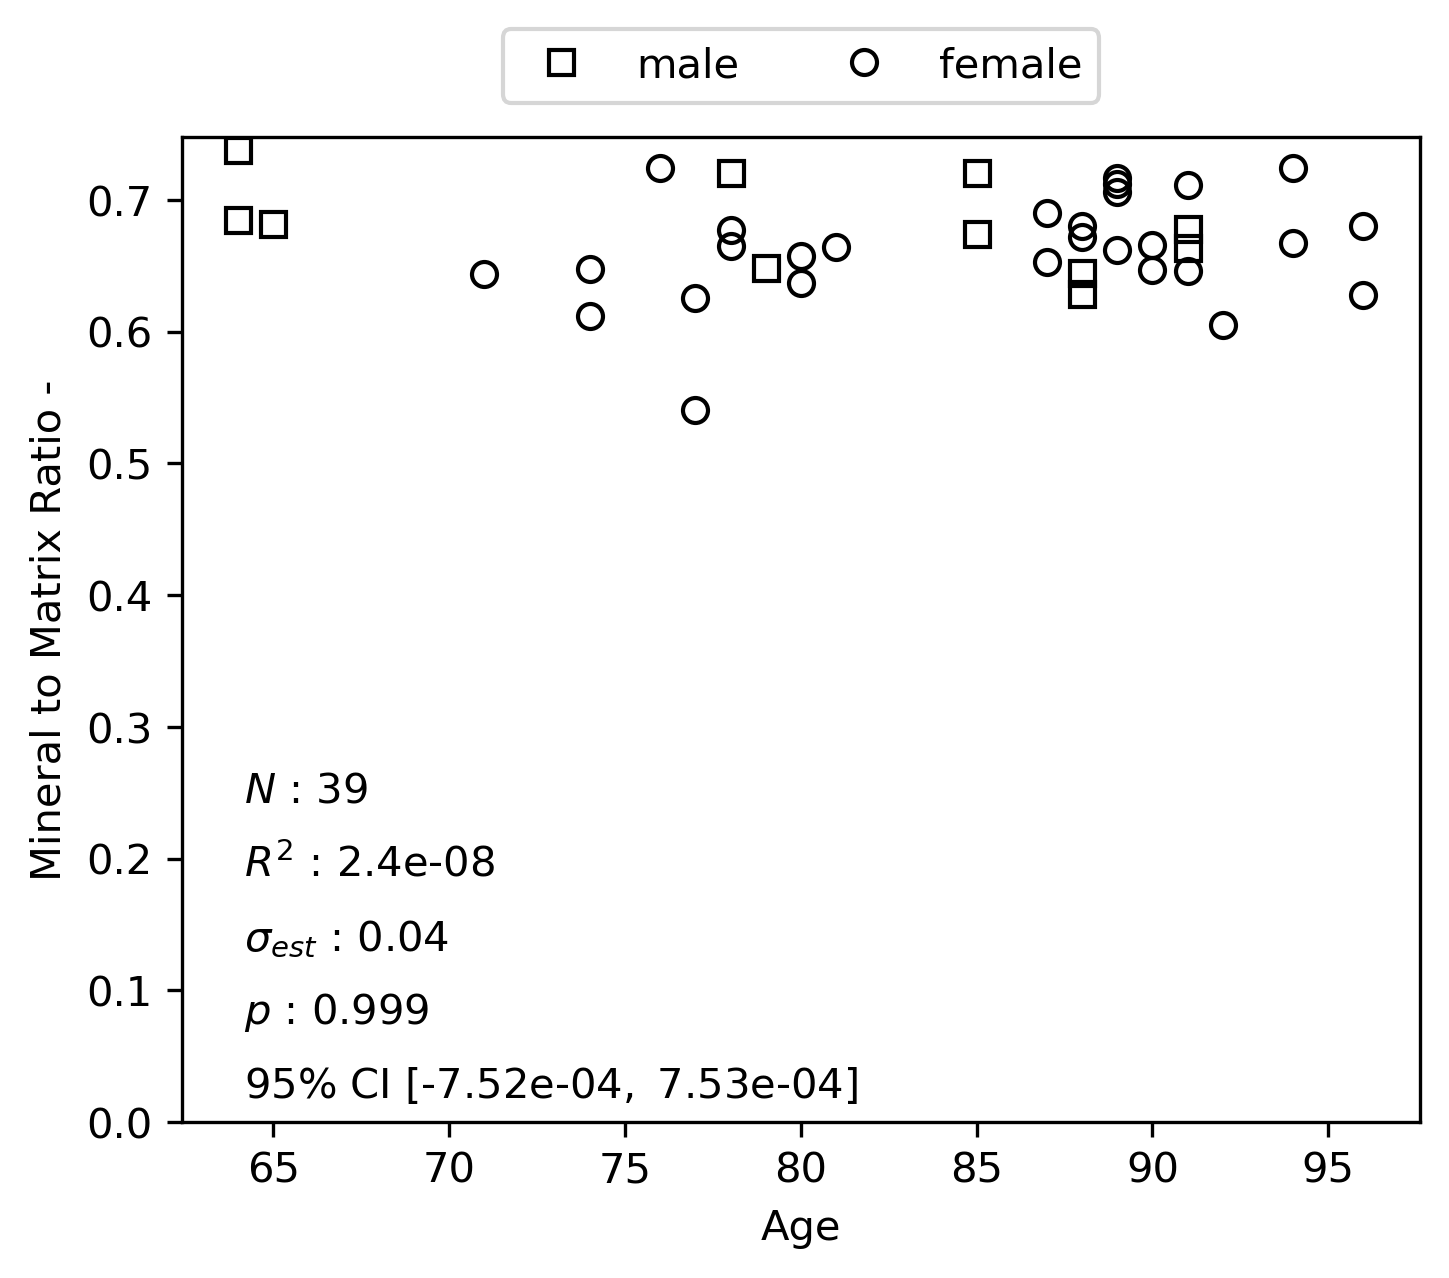
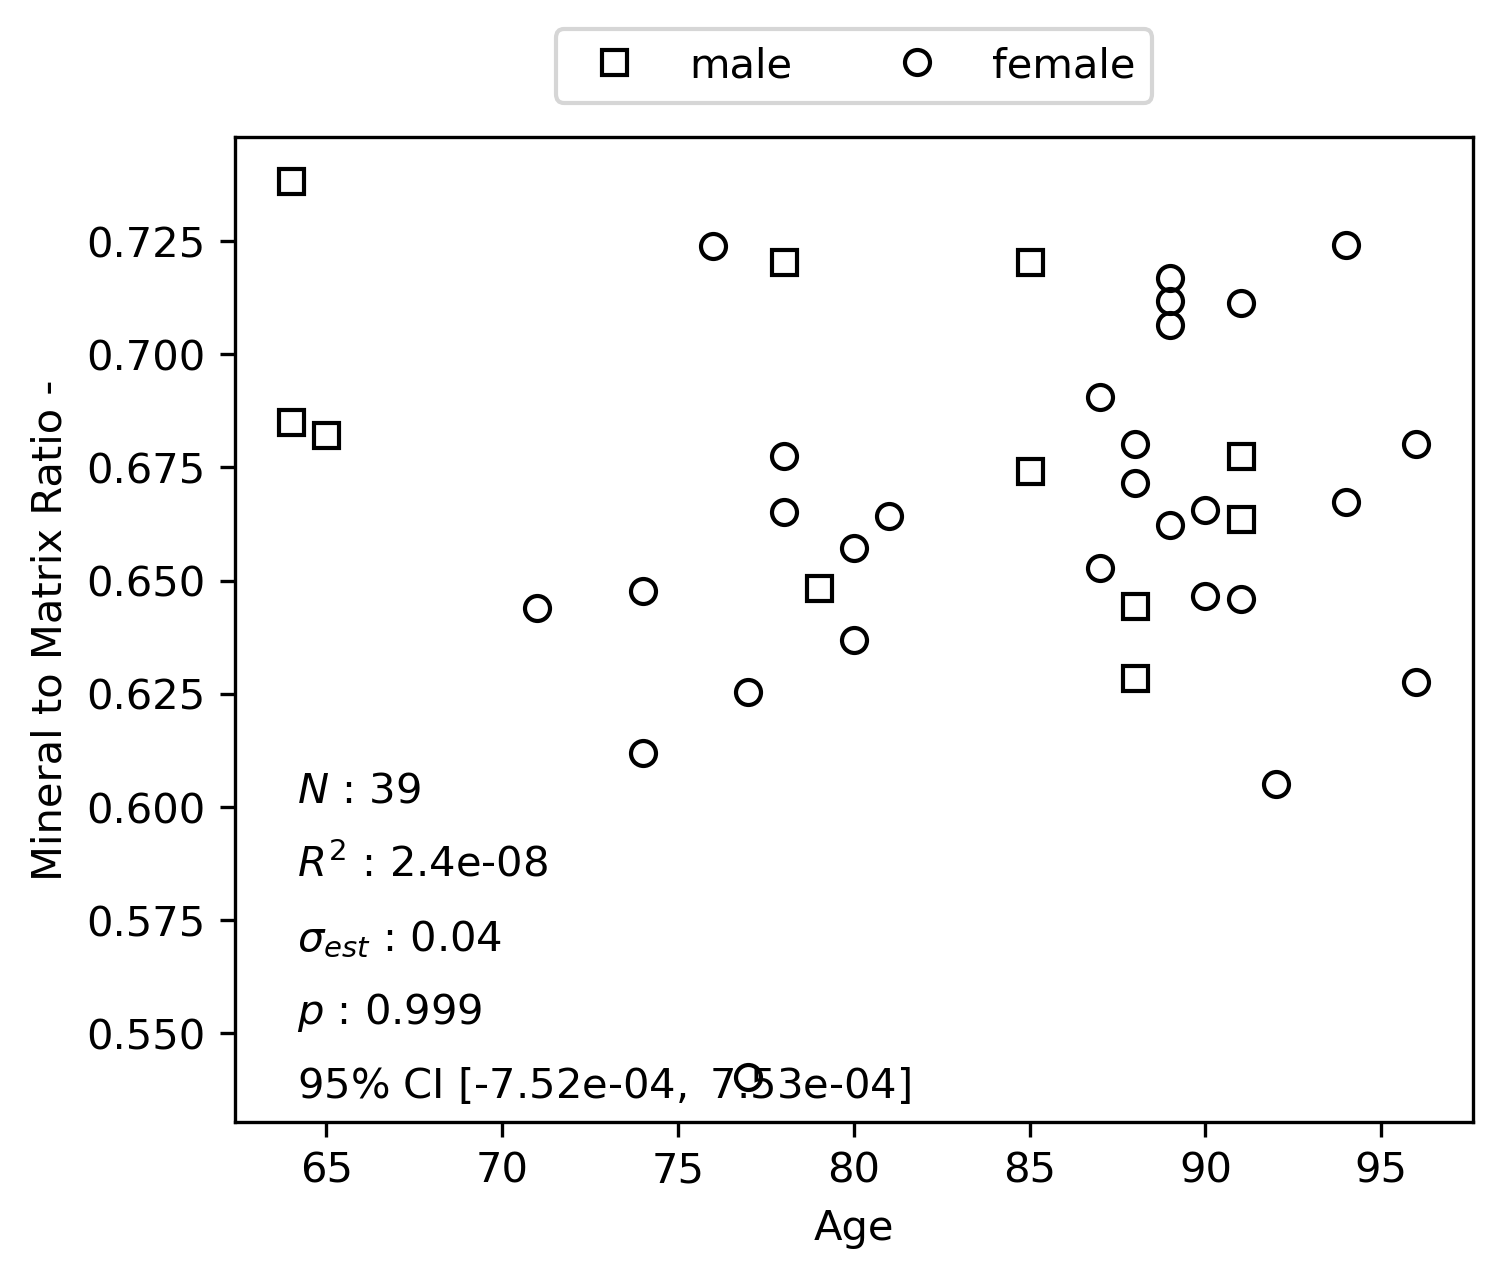
change scaling, adjust autoscale list

diff --git a/03_Scripts/plots_new.py b/03_Scripts/plots_new.py
@@ -248,9 +248,9 @@ for i in range(len(Pair)):
 
     # list of plots which need autoscaling, has to be ordered manually
     autoscale_list = pd.DataFrame({'x_axis_abbrev': ['Age',  'Age', 'Age', 'Age', 'Age', 'Age',    'Age',  'Age',
-                                                        'Age',   'Age', 'BMC'],
+                                                        'Age',   'Age', 'Age', 'BMC', 'MWF'],
                                    'y_axis_abbrev': ['BMD', 'BVTV',   'D', 'MWF', 'OWF', 'TMD', 'MEANAA', 'MINA',
-                                                     'MEANAF', 'MINAF', 'MWF']})
+                                                     'MEANAF', 'MINAF', 'MMR',  'MW', 'MMR']})
     # if p-value smaller than 0.05 create fit curve and if variable 'Age' should not be plotted on main axis, no
     # colormap will be used
     if float(p) <= 0.05:
